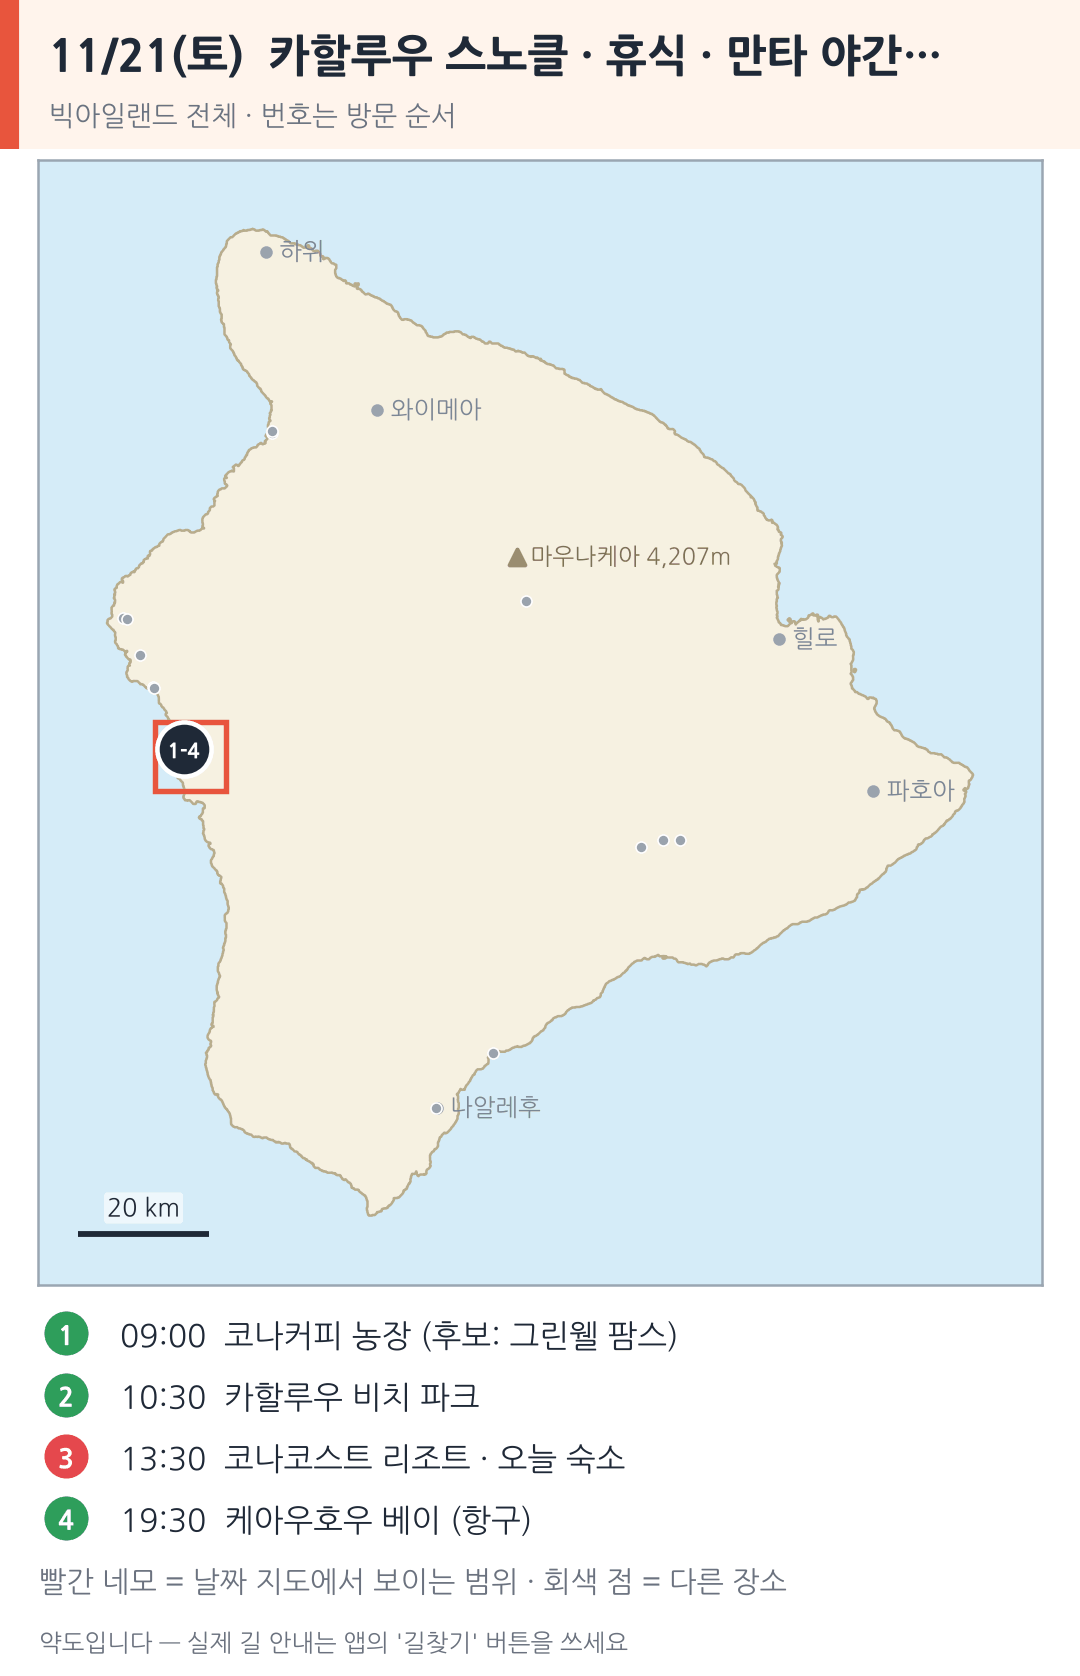
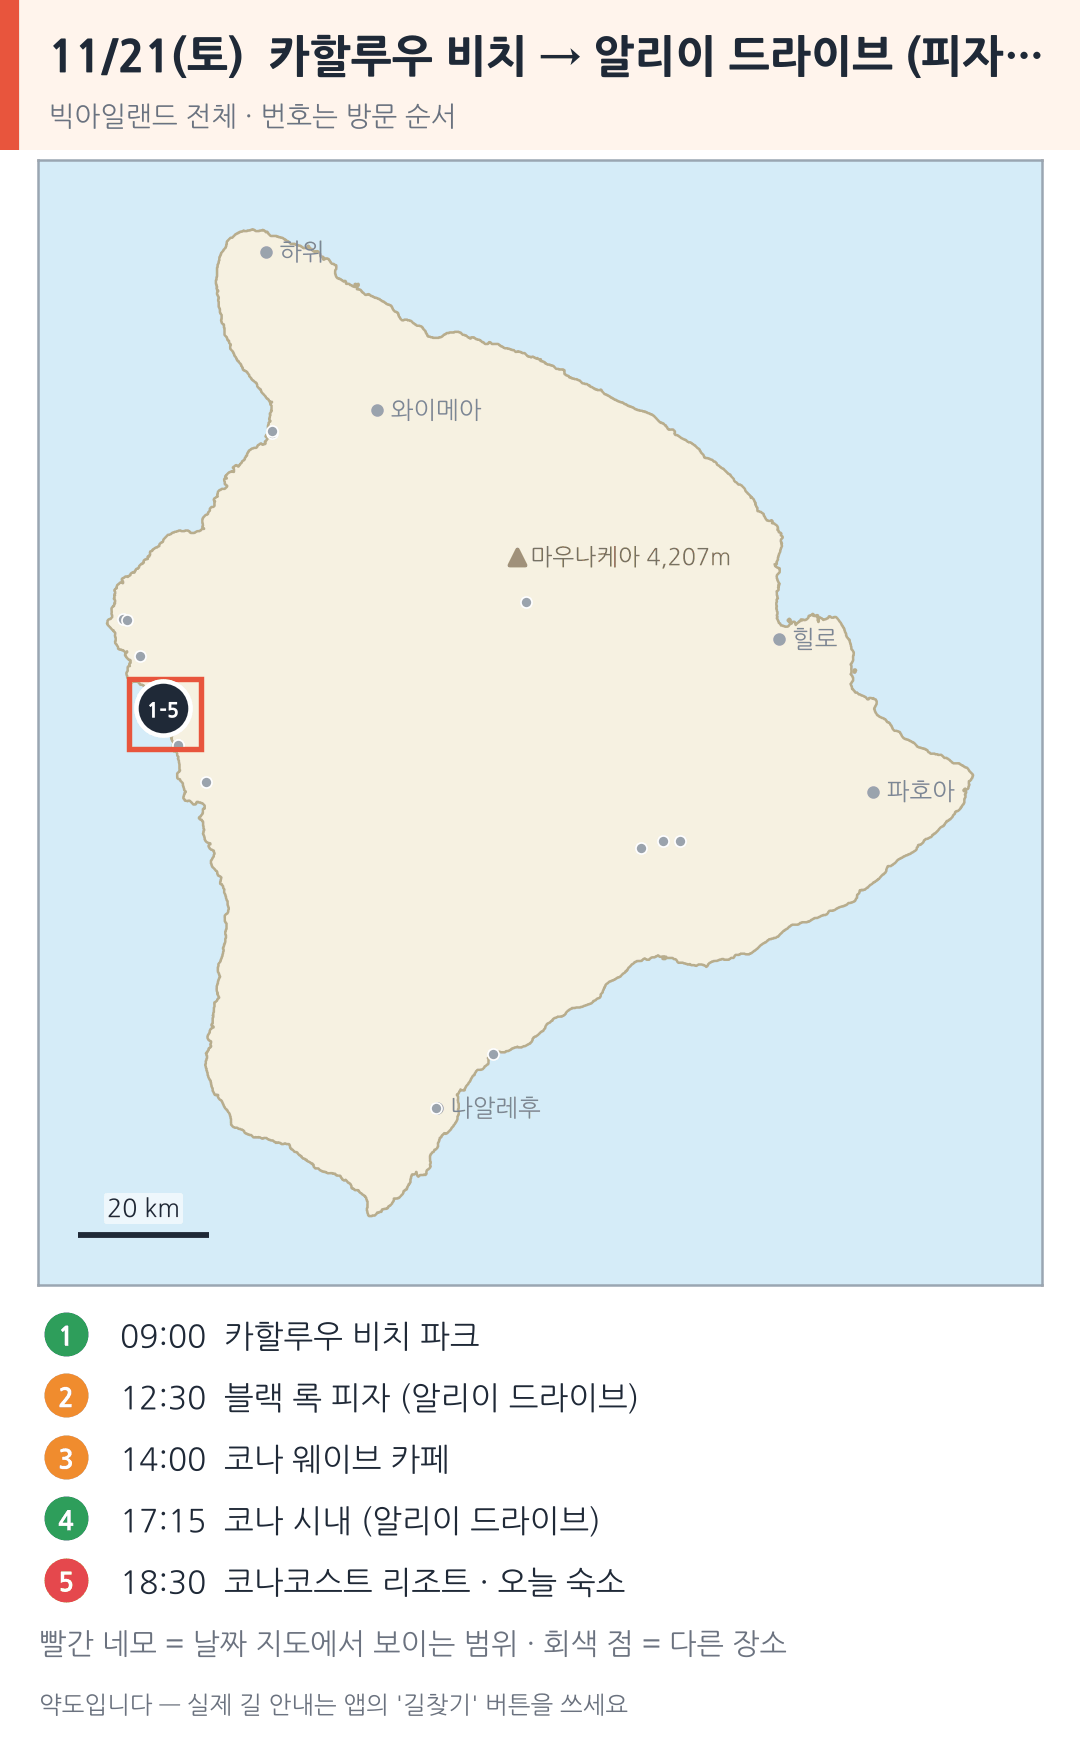
11/21 카할루우 → 알리이 드라이브 피자·카페, 11/22 오전 휴식, 만타·헬기 빼기
- 11/21 카할루우 비치 → 블랙 록 피자(영업 여부 확인) → 코나 웨이브 카페 → 선셋 → 우버 복귀
- 11/22 오전은 쉬고 다음 날 짐 싸기, 오후 별투어
- 투어는 별투어·화산 2개만: 만타·크루즈·헬기 일정과 할 일 정리
- 블랙 록 피자·코나 웨이브 카페 장소 추가 (좌표 추정)

Claude-Session: https://claude.ai/code/session_01TtVcSoKscqhBRvKoZFYa3E

diff --git a/sw.js b/sw.js
@@ -3,7 +3,7 @@
 // (파일을 고친 뒤 `node tools/build-precache.mjs` 를 실행하면 버전과 목록이 바뀐다 — 직접 고치지 말 것).
 
 /* PRECACHE:BEGIN */
-const VERSION = 'e77b-cd66';
+const VERSION = 'd96d-8f91';
 const FILES = [
   ['index.html', '37595f72'],
   ['manifest.webmanifest', '433937d9'],
@@ -39,15 +39,15 @@ const FILES = [
   ['js/wallet.js', '6127bc56'],
   ['js/weather.js', 'f8590ea6'],
   ['vendor/qrcode.js', 'ea91d711'],
-  ['data/checklists.json', '363331c5'],
+  ['data/checklists.json', '33e849db'],
   ['data/eats.json', '0616e132'],
   ['data/ideas.json', '1676e2dc'],
-  ['data/maps.json', 'b556a24c'],
+  ['data/maps.json', '41818ebd'],
   ['data/photos.json', '203050d9'],
   ['data/phrases.json', '222339e8'],
   ['data/secret.enc', 'b6362c2a'],
   ['data/transit.json', 'a4f530fd'],
-  ['data/trip.json', '1781af76'],
+  ['data/trip.json', 'f803e855'],
   ['data/videos.json', 'f543b457'],
   ['maps/big-island.png', 'a8e3a173'],
   ['maps/day-1115-wide.png', '89913008'],
@@ -62,9 +62,9 @@ const FILES = [
   ['maps/day-1119.png', '2bab0c9a'],
   ['maps/day-1120-wide.png', 'bcd662cf'],
   ['maps/day-1120.png', '465b2f6e'],
-  ['maps/day-1121-wide.png', '2b485d72'],
-  ['maps/day-1121.png', '5d18bc85'],
-  ['maps/day-1122-wide.png', '6a947ea9'],
+  ['maps/day-1121-wide.png', '4b6e648c'],
+  ['maps/day-1121.png', '61024c0f'],
+  ['maps/day-1122-wide.png', 'e37b1c57'],
   ['maps/day-1122.png', 'bd98d850'],
   ['maps/day-1123-wide.png', '20e5cf31'],
   ['maps/day-1123.png', '94de0c25'],
